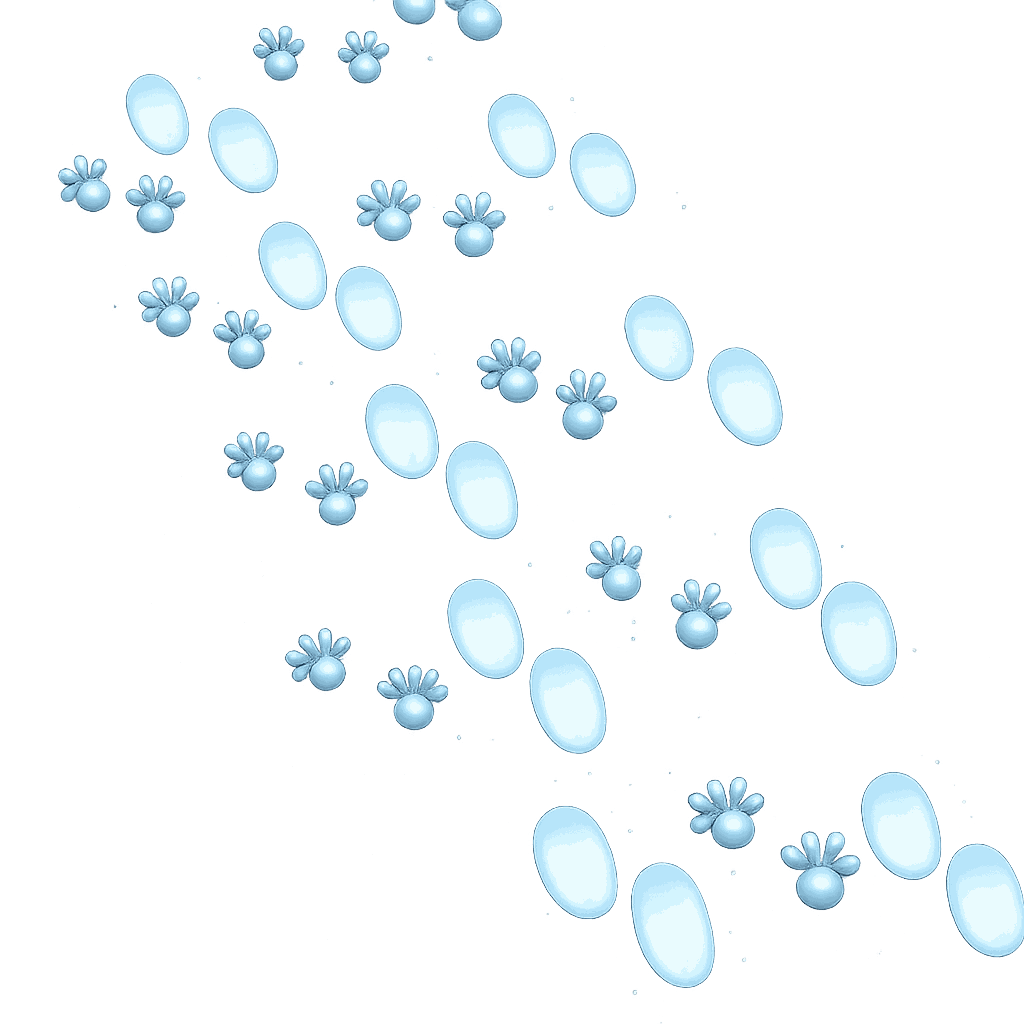
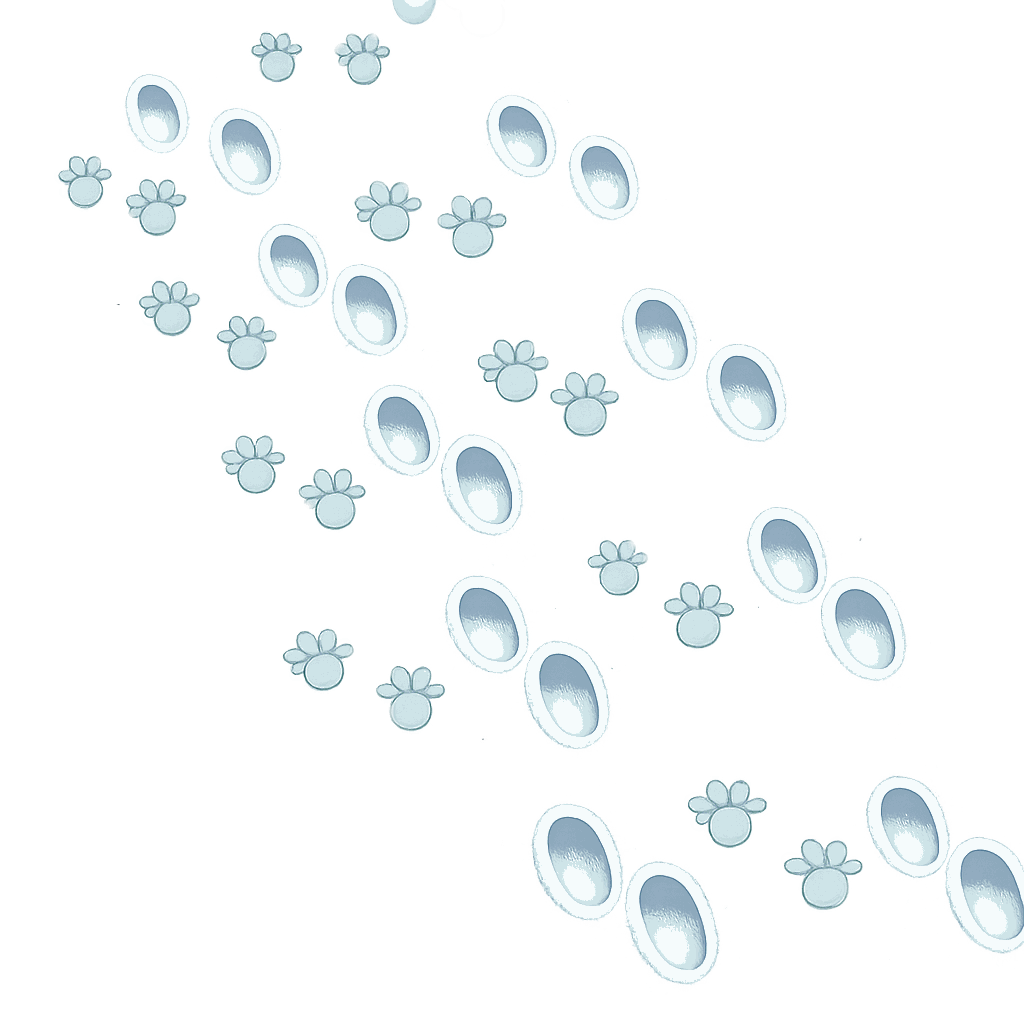
Defer a beat whose line only asks a question until its answer is seen, and flatten fourth_animal's shading

diff --git a/2026_07_narrative_chatbot/scripts/storybook_illustrations.py b/2026_07_narrative_chatbot/scripts/storybook_illustrations.py
@@ -271,6 +271,7 @@ def scene_context(config, beat_id, turns):
         "latest_participant_dialogue": dialogue(
             [turn for turn in turns if turn.source in ("participant", "observed")][-8:]),
         "is_closing": beat_id in storybook.CLOSING_FALLBACK_BEATS,
+        "elicits_description": beat.elicits_description,
         "previous_illustration": previous_illustration(config, turns[:start]),
     }
 
@@ -303,6 +304,17 @@ def summarize_scene(config: storybook.StoryConfig, beat_id: str,
                 "pose, action, expression, visible props, their colors and arrangement. "
                 "Prioritize current_state.decided, current_state.place, recent "
                 "events and latest_participant_dialogue for what is happening NOW. "
+                "EXCEPTION: when elicits_description=true, scene_start is itself a "
+                "question the bear asked (not a drawable moment), and the point of "
+                "this picture is specifically the thing being described in answer to "
+                "it (for example an imagined creature's appearance). Search all of "
+                "current_scene for the participant's answer to that question, even "
+                "if later turns moved on to another topic -- ignore what is most "
+                "recent and describe the answered appearance/description itself, in "
+                "as much visual detail (shape, size, color, fur/feather texture) as "
+                "was actually given. If it was never actually answered anywhere in "
+                "current_scene, describe only the bear's pose and expression from "
+                "scene_start with no invented creature. "
                 "reader_did entries are what the reader was actually seen doing to "
                 "the bear (参加者 is the reader): handing or holding out an object, "
                 "stroking or touching it. They may be drawn: the bear holding or "
@@ -458,6 +470,9 @@ class SessionIllustrations:
         self._promises: dict[tuple[str, str], Future] = {}
         self._active: dict[str, tuple[storybook.StoryConfig, str]] = {}
         self._covered: dict[str, set[str]] = {}
+        # A beat with elicits_description held back one more beat change,
+        # the same reason generate_from_log() defers it; see __call__.
+        self._deferred: dict[str, tuple[storybook.StoryConfig, str]] = {}
         self._tails: dict[str, Future] = {}
         self.failures = 0
 
@@ -645,12 +660,17 @@ class SessionIllustrations:
         turn = storybook.turn_from_output(output)
         config = replace(storybook.load_story_config(session.scenario.key),
                          session_id=session.session_id)
-        completed = None
+        to_submit: list[tuple] = []  # finished beats: (config, beat_id), drawn from turns *before* this one
         started = False
         # Finalize a scene after hearing its dialogue, rather than illustrating
         # the opening before the participant has had a chance to say anything.
         # A closing scene runs on to the end of the session, and what it shows
-        # is decided by the time it starts, so it is drawn right away.
+        # is decided by the time it starts, so it is drawn right away. A beat
+        # with elicits_description is held back one more beat change instead
+        # (see generate_from_log() for why): its own line is just a question,
+        # and the answer can land inside the very next beat's turn window
+        # when two scripted beats fire back to back with nothing from the
+        # participant in between.
         with self._lock:
             covered = self._covered.setdefault(session.session_id, set())
             beat_id, _ = storybook.narrate(turn, config, frozenset(covered))
@@ -659,23 +679,33 @@ class SessionIllustrations:
             turns = self._turns.setdefault(session.session_id, [])
             active = self._active.get(session.session_id)
             if beat_id and (active is None or beat_id != active[1]):
+                deferred = self._deferred.pop(session.session_id, None)
+                if deferred:
+                    to_submit.append(deferred)
                 if active:
-                    completed = (active[0], active[1], list(turns))
+                    if active[0].beats[active[1]].elicits_description:
+                        self._deferred[session.session_id] = active
+                    else:
+                        to_submit.append(active)
                 self._active[session.session_id] = (config, beat_id)
                 name = storybook.generated_illustration_name(config.scenario, config.session_id, beat_id)
                 if beat_id not in storybook.FIXED_ILLUSTRATION_BEATS and not storybook.find_illustration(name):
                     self._promises.setdefault((config.session_id, beat_id), Future())
                     started = beat_id in storybook.ILLUSTRATED_AT_START_BEATS
+            before = list(turns)
             turns.append(turn)
             snapshot = list(turns)
             if turn.ends_story:
                 self._turns.pop(session.session_id, None)
                 active = self._active.pop(session.session_id, None)
                 self._covered.pop(session.session_id, None)
+                deferred = self._deferred.pop(session.session_id, None)
+                if deferred:
+                    to_submit.append(deferred)
             else:
                 active = None
-        if completed:
-            self.submit(*completed)
+        for item_config, item_beat_id in to_submit:
+            self.submit(item_config, item_beat_id, before)
         if started:
             self.submit(config, beat_id, snapshot)
         if active:
@@ -724,16 +754,36 @@ def generate_from_log(path: Path, *, force=False, only: list[str] | None = None)
     seen = []
     current = None
     covered: set[str] = set()
+    # A beat whose own line only asks a question (elicits_description) is not
+    # finalized the moment the next beat starts: the answer to that question
+    # can land inside the NEXT beat's own turn window when two scripted beats
+    # fire back to back with no participant turn in between (footprints' own
+    # start_following can follow ask_appearance this way). Held back one more
+    # beat change, so "seen" has grown to include that answer by the time it
+    # is actually submitted.
+    deferred: str | None = None
+
+    def flush_deferred() -> None:
+        nonlocal deferred
+        if deferred and (not only or deferred in only):
+            generator.submit(config, deferred, seen, force=force)
+        deferred = None
+
     try:
         for turn in storybook.turns_from_log(records, scenario.opening_line):
             beat_id, _ = storybook.narrate(turn, config, frozenset(covered))
             if beat_id:
                 covered.add(beat_id)
             if beat_id and beat_id != current:
+                flush_deferred()
                 if current and (not only or current in only):
-                    generator.submit(config, current, seen, force=force)
+                    if config.beats[current].elicits_description:
+                        deferred = current
+                    else:
+                        generator.submit(config, current, seen, force=force)
                 current = beat_id
             seen.append(turn)
+        flush_deferred()
         if current and (not only or current in only):
             generator.submit(config, current, seen, force=force)
     finally:

diff --git a/2026_07_narrative_chatbot/scripts/storybook.py b/2026_07_narrative_chatbot/scripts/storybook.py
@@ -103,6 +103,15 @@ class StoryBeat:
     # here rather than in storybook_illustrations.py so that module stays
     # free of any one scenario's content.
     bubble_prompt: str = ""
+    # This beat's own narration/fixed line is a question, not a drawable
+    # moment (e.g. footprints' ask_appearance: "what do you think it looks
+    # like?") -- its scene is not finalized merely because the next beat has
+    # started, only once a participant turn answering it has actually been
+    # seen (or the session ends). An ordinary beat's narration already states
+    # a complete visual moment by itself and needs no such wait. Independent
+    # of bubble_bases: this is about when enough content exists, not how the
+    # picture is drawn once it does.
+    elicits_description: bool = False
 
 
 @dataclass(frozen=True)
